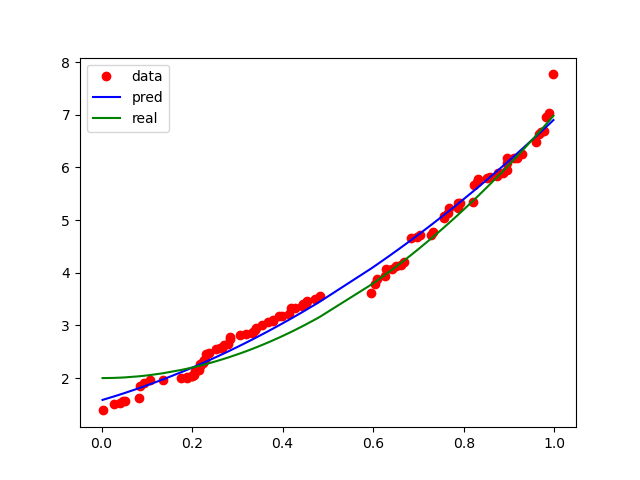
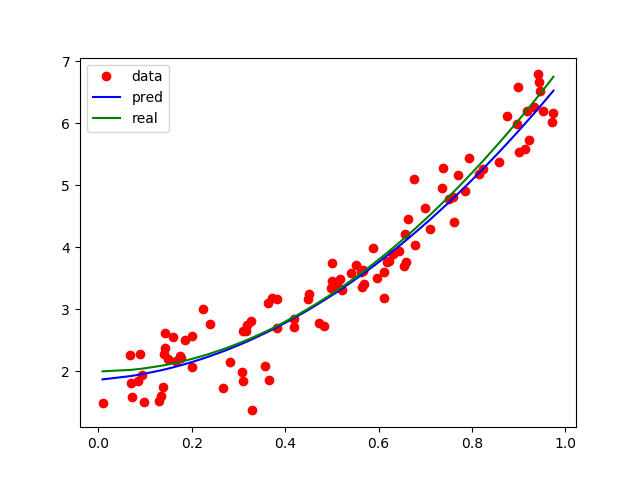
Trying Franke

diff --git a/Exercises/Week2/Frankie_test.py b/Exercises/Week2/Frankie_test.py
@@ -1,0 +1,145 @@
+# Common imports
+import os
+import numpy as np
+import pandas as pd
+import matplotlib.pyplot as plt
+from IPython.display import display
+import sklearn.linear_model as skl
+from sklearn.metrics import mean_squared_error
+from sklearn.model_selection import  train_test_split
+from sklearn.preprocessing import MinMaxScaler, StandardScaler, Normalizer
+from mpl_toolkits.mplot3d import Axes3D
+
+# Where to save the figures and data files
+PROJECT_ROOT_DIR = "Results"
+FIGURE_ID = "Results/FigureFiles"
+DATA_ID = "DataFiles/"
+
+if not os.path.exists(PROJECT_ROOT_DIR):
+    os.mkdir(PROJECT_ROOT_DIR)
+
+if not os.path.exists(FIGURE_ID):
+    os.makedirs(FIGURE_ID)
+
+if not os.path.exists(DATA_ID):
+    os.makedirs(DATA_ID)
+
+def image_path(fig_id):
+    return os.path.join(FIGURE_ID, fig_id)
+
+def data_path(dat_id):
+    return os.path.join(DATA_ID, dat_id)
+
+def save_fig(fig_id):
+    plt.savefig(image_path(fig_id) + ".png", format='png')
+
+def MSE(y, y_tilde):
+    n = len(y)
+    return np.sum((y-y_tilde)**2)/n
+
+def R2(y, y_tilde):
+    return 1- np.sum((y-y_tilde)**2)/np.sum((y-np.mean(y))**2)
+
+
+def FrankeFunction(x,y):
+	term1 = 0.75*np.exp(-(0.25*(9*x-2)**2) - 0.25*((9*y-2)**2))
+	term2 = 0.75*np.exp(-((9*x+1)**2)/49.0 - 0.1*(9*y+1))
+	term3 = 0.5*np.exp(-(9*x-7)**2/4.0 - 0.25*((9*y-3)**2))
+	term4 = -0.2*np.exp(-(9*x-4)**2 - (9*y-7)**2)
+	return term1 + term2 + term3 + term4
+
+
+def create_X(x, y, n):
+	if len(x.shape) > 1:
+		x = np.ravel(x)
+		y = np.ravel(y)
+
+	N = len(x)
+	l = int((n+1)*(n+2)/2)		# Number of elements in beta
+	X = np.ones((N,l))
+
+	for i in range(1,n+1):
+		q = int((i)*(i+1)/2)
+		for k in range(i+1):
+			X[:,q+k] = (x**(i-k))*(y**k)
+
+	return X
+
+
+# Making meshgrid of datapoints and compute Franke's function
+np.random.seed(4155)
+n = 5
+N = 100
+x = np.sort(np.random.uniform(0, 1, N))
+y = np.sort(np.random.uniform(0, 1, N))
+X, Y = np.meshgrid(x, y)
+z_matrix = FrankeFunction(X, Y)
+z = np.ravel(z_matrix)
+
+X_D = create_X(X, Y, n=n)
+print(X_D.shape, z.shape)
+
+# split in training and test data
+X_train, X_test, y_train, y_test = train_test_split(X_D,z,test_size=0.25)
+print(X_train.shape, y_train.shape)
+
+OLSbeta = np.linalg.inv(X_train.T @ X_train) @ X_train.T @ y_train
+ytilde_OLS = X_train@OLSbeta
+
+print("MSE train before scale: ", MSE(y_train, ytilde_OLS))
+print("R2 train before scale: ", R2(y_train, ytilde_OLS))
+
+ypred_OLS = X_test@OLSbeta
+print("------------")
+
+print("MSE test before scale: ", MSE(y_test, ypred_OLS))
+print("R2 test before scale: ", R2(y_test, ypred_OLS))
+
+scaler = StandardScaler()
+scaler.fit(X_train[:, 1:])
+X_train_scaled = scaler.transform(X_train[:, 1:])
+X_test_scaled = scaler.transform(X_test[:, 1:])
+
+ones_train = np.ones((len(y_train), 1))
+ones_test = np.ones((len(y_test), 1))
+X_train_scaled = np.hstack((ones_train, X_train_scaled))
+X_test_scaled = np.hstack((ones_test, X_test_scaled))
+
+OLSbeta_scale = np.linalg.inv(X_train_scaled.T@X_train_scaled)@X_train_scaled.T@y_train
+ytilde_scale = X_train_scaled@OLSbeta_scale
+
+print("MSE train after scale: ", MSE(y_train, ytilde_scale))
+print("R2 train after scale: ", R2(y_train, ytilde_scale))
+
+ypred_scale = X_test_scaled@OLSbeta_scale
+print("------------")
+
+print("MSE test after scale: ", MSE(y_test, ypred_scale))
+print("R2 test after scale: ", R2(y_test, ypred_scale))
+
+
+"""
+print("Sklearn fitting: ")
+clf = skl.LinearRegression().fit(X_train, y_train)
+
+# The mean squared error and R2 score
+print("MSE before scaling: {:.5f}".format(mean_squared_error(clf.predict(X_test), y_test)))
+print("R2 score before scaling {:.5f}".format(clf.score(X_test,y_test)))
+
+print("Feature min values before scaling:\n {}".format(X_train.min(axis=0)))
+print("Feature max values before scaling:\n {}".format(X_train.max(axis=0)))
+
+print("Feature min values after scaling:\n {}".format(X_train_scaled.min(axis=0)))
+print("Feature max values after scaling:\n {}".format(X_train_scaled.max(axis=0)))
+
+clf = skl.LinearRegression().fit(X_train_scaled, y_train)
+
+
+print("MSE after  scaling: {:.5f}".format(mean_squared_error(clf.predict(X_test_scaled), y_test)))
+print("R2 score for  scaled data: {:.5f}".format(clf.score(X_test_scaled,y_test)))"""
+
+fig = plt.figure()
+ax = fig.gca(projection='3d')
+
+surf = ax.plot_surface(X,Y,z_matrix)
+plt.show()

diff --git a/Exercises/Week1/Exercise1_2.py b/Exercises/Week1/Exercise1_2.py
@@ -2,7 +2,9 @@ import os
 import numpy as np
 import matplotlib.pyplot as plt
 from IPython.display import display
+import sklearn.linear_model as skl
 from sklearn.model_selection import train_test_split
+from sklearn.preprocessing import StandardScaler
 import pandas as pd
 
 PROJECT_ROOT_DIR = "Results"
@@ -34,11 +36,10 @@ def MSE(y, y_tilde):
 def R2(y, y_tilde):
     return 1- np.sum((y-y_tilde)**2)/np.sum((y-np.mean(y))**2)
 
-x = np.random.rand(100,1)
-y = 2.0 + 5*x*x + 0.5*np.random.randn(100,1)
+x = np.random.rand(100)
 
-x_sort = np.sort(x[:,0])
-y_sort = np.sort(y[:,0])
+x_sort = np.sort(x)
+y = 2.0 + 5*x_sort*x_sort + 0.4*np.random.randn(100)
 
 p = 3
 X = np.zeros((len(x_sort), p))
@@ -52,7 +53,7 @@ DesignMatrix.columns = ['1', 'x', 'x^2']
 print("Exercise 1.2:")
 display(DesignMatrix)
 
-x_train, x_test, y_train, y_test = train_test_split(X, y_sort, test_size = 0.2)
+x_train, x_test, y_train, y_test = train_test_split(X, y, test_size = 0.2)
 
 beta = np.linalg.inv(x_train.T @ x_train) @ x_train.T @ y_train
 print('beta = ', beta)
@@ -60,7 +61,7 @@ print('beta = ', beta)
 y_pred = beta[0]*np.ones(len(x_sort)) + beta[1]*x_sort + beta[2]*x_sort**2
 y_real = 2*np.ones(len(x_sort)) + 5*x_sort**2
 
-plt.plot(x_sort, y_sort, 'ro', label='data')
+plt.plot(x_sort, y, 'ro', label='data')
 plt.plot(x_sort, y_pred, 'b-', label='pred')
 plt.plot(x_sort, y_real, 'g-', label='real')
 plt.legend()
@@ -76,3 +77,62 @@ R2_test = R2(y_test, ypred)
 
 print('training values, MSE: %.4f, R2: %.4f' % (MSE_train, R2_train))
 print('test values, MSE: %.4f, R2: %.4f' % (MSE_test, R2_test))
+
+
+#scaled data set
+print("Scaling:")
+
+scaler = StandardScaler()
+scaler.fit(x_train)
+x_train_scaled = scaler.transform(x_train)
+x_test_scaled = scaler.transform(x_test)
+
+beta_scale = np.linalg.pinv(x_train_scaled.T @ x_train_scaled) @ x_train_scaled.T @ y_train
+print('beta = ', beta_scale)
+
+y_pred = beta_scale[0]*np.ones(len(x_sort)) + beta_scale[1]*x_sort + beta_scale[2]*x_sort**2
+y_real = 2*np.ones(len(x_sort)) + 5*x_sort**2
+
+plt.plot(x_sort, y, 'ro', label='data')
+plt.plot(x_sort, y_pred, 'b-', label='pred')
+plt.plot(x_sort, y_real, 'g-', label='real')
+plt.legend()
+plt.show()
+
+ytilde_s = x_train @ beta_scale
+ypred_s = x_test @ beta_scale
+MSE_train_scale = MSE(y_train, ytilde_s)
+MSE_test_scale = MSE(y_test, ypred_s)
+R2_train_scale = R2(y_train, ytilde_s)
+R2_test_scale = R2(y_test, ypred_s)
+
+print('training values, MSE: %.4f, R2: %.4f' % (MSE_train_scale, R2_train_scale))
+print('test values, MSE: %.4f, R2: %.4f' % (MSE_test_scale, R2_test_scale))
+
+
+'''
+X_scaled = np.zeros((len(x_sort), p))
+
+for i in range(p):
+    X_scaled[:,i] = x_scaled**i
+
+DesignMatrix_scaled = pd.DataFrame(X_scaled)
+DesignMatrix_scaled.index = x_scaled
+DesignMatrix_scaled.columns = ['1', 'x', 'x^2']
+print("Exercise 1.2(scaled):")
+display(DesignMatrix_scaled)
+
+x_train, x_test, y_train, y_test = train_test_split(X_scaled, y, test_size = 0.2)
+
+beta_scaled = np.linalg.inv(x_train.T @ x_train) @ x_train.T @ y_train
+print('beta(scaled) = ', beta_scaled)
+
+y_pscaled = beta_scaled[0]*np.ones(len(x_scaled)) + beta_scaled[1]*x_scaled + beta_scaled[2]*x_scaled**2
+y_rscaled = 2*np.ones(len(x_scaled)) + 5*x_scaled**2
+
+plt.plot(x_scaled, y_scaled, 'ro', label='data')
+plt.plot(x_scaled, y_pscaled, 'b-', label='pred')
+plt.plot(x_scaled, y_rscaled, 'g-', label='real')
+plt.legend()
+save_fig('exercise1_2(scaled)')
+plt.show()'''

diff --git a/Exercises/Week2/Exercise2_1.py b/Exercises/Week2/Exercise2_1.py
@@ -1,0 +1,79 @@
+import os
+import numpy as np
+import matplotlib.pyplot as plt
+from IPython.display import display
+import sklearn.linear_model as skl
+from sklearn.model_selection import train_test_split
+from sklearn.preprocessing import StandardScaler
+import pandas as pd
+
+PROJECT_ROOT_DIR = "Results"
+FIGURE_ID = "Results/FigureFiles"
+DATA_ID = "DataFiles/"
+
+if not os.path.exists(PROJECT_ROOT_DIR):
+    os.mkdir(PROJECT_ROOT_DIR)
+
+if not os.path.exists(FIGURE_ID):
+    os.makedirs(FIGURE_ID)
+
+if not os.path.exists(DATA_ID):
+    os.makedirs(DATA_ID)
+
+def image_path(fig_id):
+    return os.path.join(FIGURE_ID, fig_id)
+
+def data_path(dat_id):
+    return os.path.join(DATA_ID, dat_id)
+
+def save_fig(fig_id):
+    plt.savefig(image_path(fig_id) + ".png", format='png')
+
+def MSE(y, y_tilde):
+    n = len(y)
+    return np.sum((y-y_tilde)**2)/n
+
+def R2(y, y_tilde):
+    return 1- np.sum((y-y_tilde)**2)/np.sum((y-np.mean(y))**2)
+
+np.random.seed(4155)
+N = 1000
+x = np.random.rand(N)
+
+x_sort = np.sort(x)
+y = 2.0 + 5*x_sort*x_sort + 0.5*np.random.randn(N)
+yreal = 2.0 + 5*x_sort*x_sort
+
+dim = np.linspace(2,19,18)
+Test_err = np.zeros(len(dim))
+Train_err = np.zeros(len(dim))
+i = 0
+
+for p in range(2,20):
+
+    X = np.ones((len(x_sort), p))
+
+    for j in range(p):
+        X[:,j] = (x_sort)**j
+
+    x_train, x_test, y_train, y_test = train_test_split(X, y, test_size=0.25)
+
+    OLSbeta = np.linalg.inv(x_train.T@x_train)@x_train.T@y_train
+
+    ytilde_OLS = x_train@OLSbeta
+
+    Train_err[i] = MSE(y_train, ytilde_OLS)
+    print("polynomial of degree ", p)
+    print("training R2 for OLS: ", R2(y_train, ytilde_OLS))
+    print("training MLS for OLS: ", MSE(y_train, ytilde_OLS))
+    ypred_OLS = x_test@OLSbeta
+    Test_err[i] = MSE(y_test, ypred_OLS)
+    print("test R2 for OLS: ", R2(y_test, ypred_OLS))
+    print("test MLS for OLS: ", MSE(y_test, ypred_OLS))
+    print(" ")
+    i += 1
+
+plt.plot(dim, Test_err, label='test error')
+plt.plot(dim, Train_err, label='train_err')
+plt.legend()
+plt.show()
